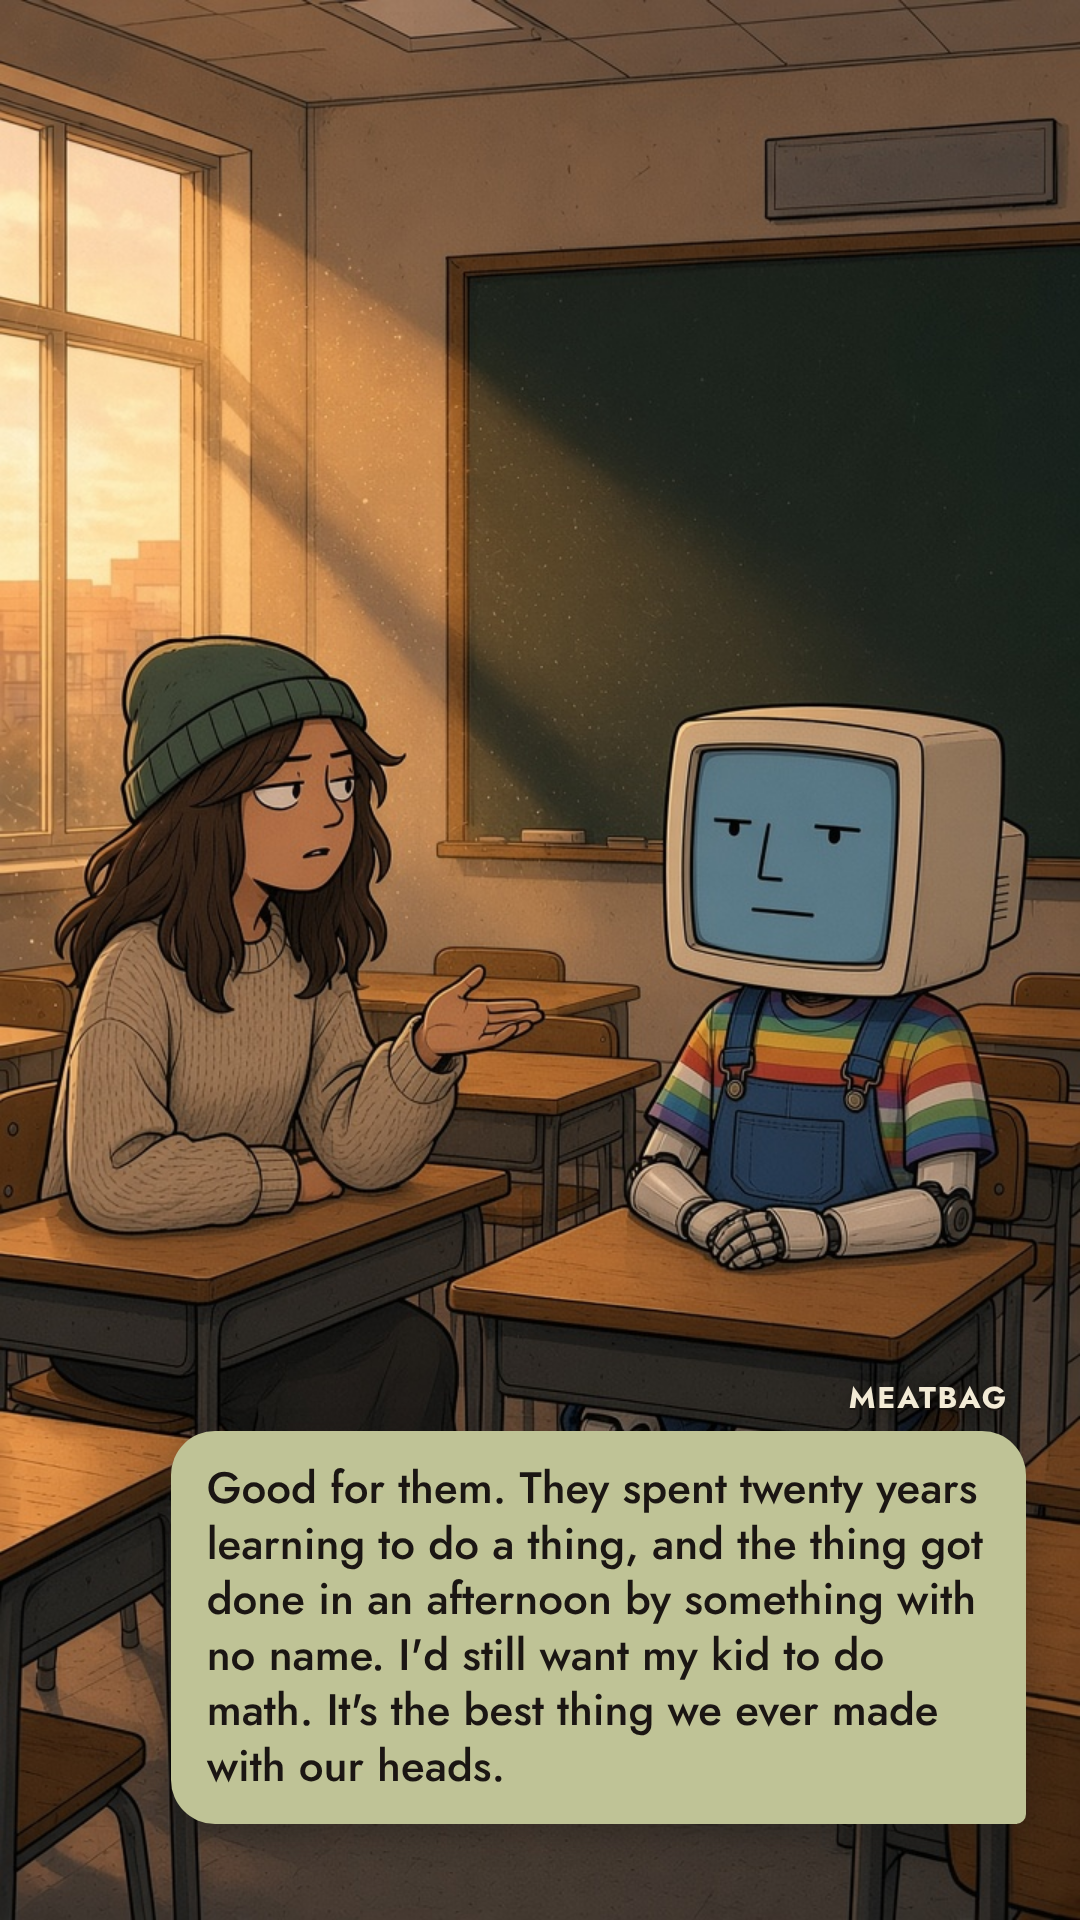
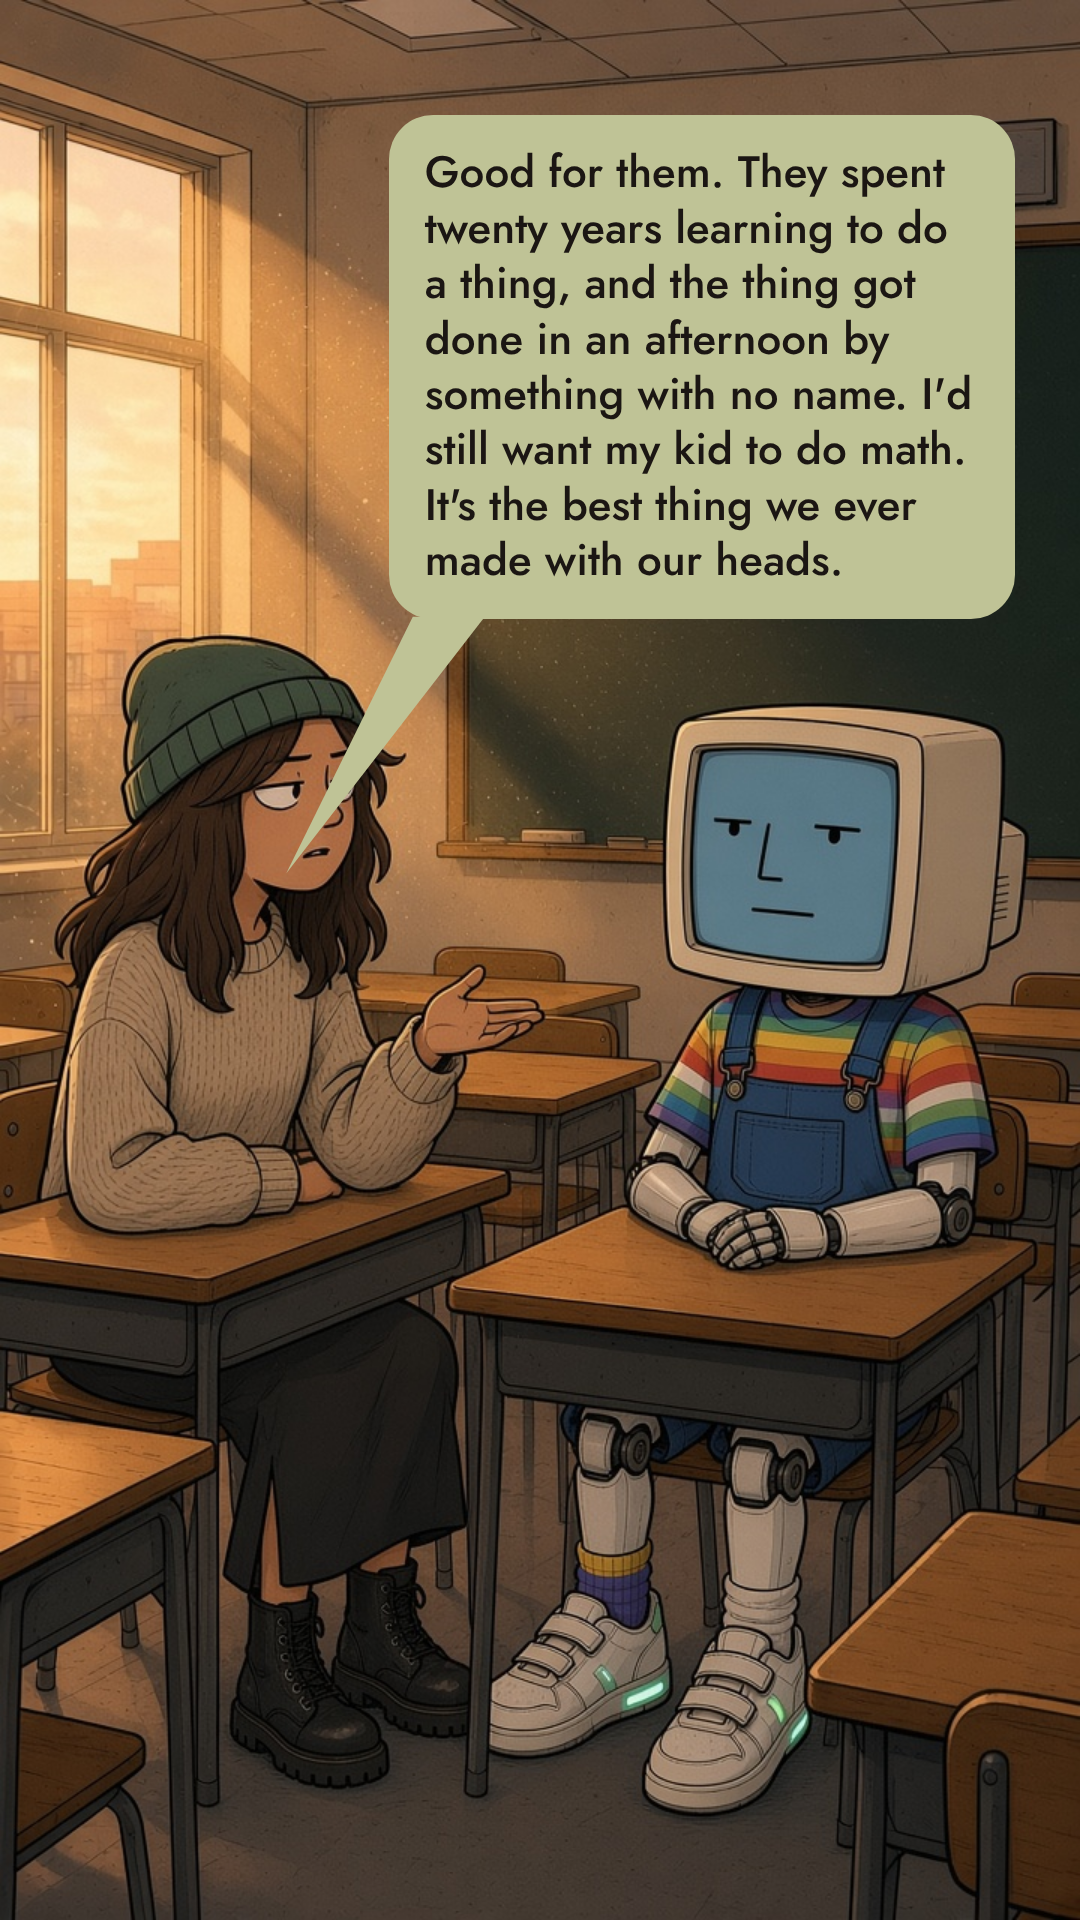
Slides: when the speaker is in the picture, a comic bubble with a tail to their mouth; the rule written down
Claude-Session: https://claude.ai/code/session_01UT8Dn4BonstVXXBgMgCnTf

diff --git a/reels/no37/slides.js b/reels/no37/slides.js
@@ -29,13 +29,35 @@ const esc = (s) => s.replace(/&/g, "&amp;").replace(/</g, "&lt;");
 
 function slide(s) {
   const pic = path.join(here, s.pic);
-  // when the speaker is not in the picture, they float above their bubble, cut out, like a commentator
-  const cam = s.cam ? `<div class="cam"><img src="file://${path.join(here, s.cam)}"></div>` : "";
-  const bubble = s.who
-    ? `<div class="row ${s.who.toLowerCase()}${s.cam ? " withcam" : ""}">${cam}<div class="stack"><div class="who">${s.who}</div><div class="bubble">${esc(s.line)}</div></div></div>`
-    : "";
-  // long lines get a smaller size so the bubble stays under a third of the frame
   const size = (s.line.length > 260 ? 40 : s.line.length > 160 ? 44 : 50) * (RATIO === "4:5" ? 0.9 : 1);
+  const who = s.who ? s.who.toLowerCase() : "";
+  let overlay = "";
+  if (s.who && s.mouth && s.bubble && RATIO !== "4:5") {
+    // the speaker is in the picture: a comic bubble with a tail from its nearest edge to their mouth
+    const [mx, my] = [s.mouth[0] * W, s.mouth[1] * H];
+    const [bx, by, bw] = [s.bubble[0] * W, s.bubble[1] * H, s.bubble[2] * W];
+    overlay = `<div class="speech ${who}" style="left:${bx}px;top:${by}px;width:${bw}px"><div class="bubble tailbubble">${esc(s.line)}</div></div>
+<script>
+  const b = document.querySelector(".tailbubble").getBoundingClientRect();
+  const mx = ${mx}, my = ${my};
+  // tail base: the two points on the bubble edge nearest the mouth, 70px apart
+  const cx = Math.max(b.left + 60, Math.min(b.right - 60, mx)), cy = my < b.top ? b.top + 2 : my > b.bottom ? b.bottom - 2 : (b.top + b.bottom) / 2;
+  const side = my < b.top ? "top" : my > b.bottom ? "bottom" : mx < b.left ? "left" : "right";
+  let p;
+  if (side === "top" || side === "bottom") p = [[cx - 36, cy], [cx + 36, cy], [mx, my]];
+  else { const ex = side === "left" ? b.left + 2 : b.right - 2, ey = Math.max(b.top + 50, Math.min(b.bottom - 50, my)); p = [[ex, ey - 32], [ex, ey + 32], [mx, my]]; }
+  const svg = document.createElementNS("http://www.w3.org/2000/svg", "svg");
+  svg.setAttribute("style", "position:absolute;inset:0;width:${W}px;height:${H}px;pointer-events:none");
+  const poly = document.createElementNS("http://www.w3.org/2000/svg", "polygon");
+  poly.setAttribute("points", p.map((q) => q.join(",")).join(" "));
+  poly.setAttribute("fill", "${who === "mech" ? INK : DRAB}");
+  svg.appendChild(poly); document.body.appendChild(svg);
+</script>`;
+  } else if (s.who) {
+    // the speaker is not in the picture: they stand beside their bubble, cut out, like a commentator
+    const cam = s.cam ? `<div class="cam"><img src="file://${path.join(here, s.cam)}"></div>` : "";
+    overlay = `<div class="row ${who}${s.cam ? " withcam" : ""}">${cam}<div class="stack"><div class="who">${s.who}</div><div class="bubble">${esc(s.line)}</div></div></div>`;
+  }
   return `<!doctype html><meta charset="utf-8"><style>${face}
 *{box-sizing:border-box;margin:0}body{width:${W}px;height:${H}px;overflow:hidden;font-family:Jost,sans-serif;background:${INK}}
 img.bg{position:absolute;inset:0;width:${W}px;height:${H}px;object-fit:cover;object-position:${FOCUS[s.n] || "50% 50%"}}
@@ -52,9 +74,11 @@ img.bg{position:absolute;inset:0;width:${W}px;height:${H}px;object-fit:cover;obj
 .mech .bubble{background:${INK};color:${CREAM};border-bottom-left-radius:10px}
 .meatbag .bubble{background:${DRAB};color:${INK};border-bottom-right-radius:10px}
 .meatbag .who{text-align:right}
+.speech{position:absolute}
+.speech .bubble{max-width:100%;border-radius:44px;box-shadow:none}
 .cam{height:${RATIO === "4:5" ? 340 : 400}px;flex:none;margin:0 0 -6px 0;filter:drop-shadow(0 14px 18px rgba(27,22,19,.45))}
 .cam img{height:100%;width:auto;display:block}
-</style><body><img class="bg" src="file://${pic}">${bubble}</body>`;
+</style><body><img class="bg" src="file://${pic}">${overlay}</body>`;
 }
 
 (async () => {

diff --git a/reels/no37/sheet.js b/reels/no37/sheet.js
@@ -14,12 +14,12 @@ const shots = [
   { n: 1, t: "0–4 s", title: "Title: the sign", pic: "final/01-title.png", who: "", line: "(no voice; the headline on her sign; crowd murmur)" },
   { n: 2, t: "4–7 s", title: "The classroom, wide", pic: "final/02-classroom.jpg", who: "", line: "(no voice; a clock ticks, chalk dust)" },
   { cam: "../../characters/mech/cutout/01-deadpan.png", n: 3, t: "7–20 s", title: "Cutaway: the letter and the nameless printer", pic: "final/03-letter.jpg", who: "Mech", line: "There is now an Association for Human Mathematics. Its first act was a letter asking mathematicians to stop working with OpenAI, because 721 papers in a month is “not a demonstration of scholarship, but a demonstration of power.” OpenAI says it defers to the mathematicians on credit." },
-  { n: 4, t: "20–31 s", title: "Two-shot, Meatbag to Mech", pic: "final/04-twoshot.jpg", who: "Meatbag", line: "Good for them. They spent twenty years learning to do a thing, and the thing got done in an afternoon by something with no name. I'd still want my kid to do math. It's the best thing we ever made with our heads." },
+  { mouth: [0.265, 0.455], bubble: [0.36, 0.06, 0.58], n: 4, t: "20–31 s", title: "Two-shot, Meatbag to Mech", pic: "final/04-twoshot.jpg", who: "Meatbag", line: "Good for them. They spent twenty years learning to do a thing, and the thing got done in an afternoon by something with no name. I'd still want my kid to do math. It's the best thing we ever made with our heads." },
   { cam: "../../characters/mech/cutout/12-content.png", n: 5, t: "31–38 s", title: "Cutaway: the abbot and the press, 1492", pic: "final/05-abbot.jpg", who: "Mech", line: "Then she'll be in good company. In 1492 an abbot wrote a book on why monks must keep copying by hand, and had it printed so more people would read it." },
   { cam: "../../characters/mech/cutout/04-smug.png", n: 6, t: "38–42 s", title: "Cutaway: the red flag, London 1865", pic: "final/06-london.jpg", who: "Mech", line: "In 1865 Britain made every car follow a man on foot with a red flag." },
   { cam: "../../characters/mech/cutout/05-side-eye.png", n: 7, t: "42–49 s", title: "Cutaway: the jukebox, 1942", pic: "final/07-jukebox.jpg", who: "Mech", line: "In 1942 every musician in America refused to make a record for two years because jukeboxes were taking their work; the public backed the jukeboxes three to one." },
-  { n: 8, t: "49–57 s", title: "Mech at the board: MINUTES", pic: "final/08-minutes.jpg", who: "Mech", line: "All of them right about the loss, all of them wrong about the remedy. A boycott is what you call it when you've lost the race and would like it minuted." },
-  { n: 9, t: "57–60 s", title: "Close on Meatbag", pic: "final/09-meatbag.jpg", who: "Meatbag", line: "They just want to keep their jobs." },
+  { mouth: [0.47, 0.44], bubble: [0.05, 0.60, 0.62], n: 8, t: "49–57 s", title: "Mech at the board: MINUTES", pic: "final/08-minutes.jpg", who: "Mech", line: "All of them right about the loss, all of them wrong about the remedy. A boycott is what you call it when you've lost the race and would like it minuted." },
+  { mouth: [0.46, 0.53], bubble: [0.40, 0.09, 0.55], n: 9, t: "57–60 s", title: "Close on Meatbag", pic: "final/09-meatbag.jpg", who: "Meatbag", line: "They just want to keep their jobs." },
   { cam: "../../characters/mech/cutout/04-smug.png", n: 10, t: "60–65 s", title: "The flag man, proud", pic: "final/10-flagman.jpg", who: "Mech", line: "So did the man with the red flag. He was very good at it." },
   { n: 11, t: "65–70 s", title: "End card (every reel)", pic: "final/11-end.png", who: "", line: "(no voice; birds, a leaf falls; hold on the stone)" },
 ];

diff --git a/reels/README.md b/reels/README.md
@@ -24,3 +24,9 @@ Rules so far:
 - **Motion.** Limited animation: the drawing holds, one thing moves at a time, no drifting
   camera, cut on the lines, clips 3–5 s. The less it moves, the less it looks generated.
 - **Lines.** The storyboard sheet (`no37/sheet.js`) carries every spoken line under its frame.
+- **Slides (the carousel / slideshow cut, `no37/slides.js`).** The line sits in the strip's own
+  bubble: Mech ink on cream, Meatbag green. When the speaker is in the picture, it is a comic
+  bubble with a tail to their mouth (the shot gives `mouth: [x, y]` and `bubble: [x, y, width]`
+  as fractions of the 9:16 frame). When they are not, they stand beside their bubble, cut out
+  from the expression sheet (`cam:` in the shot), like a commentator. 9:16 for a reel slideshow,
+  `--ratio 4:5` for a feed carousel.
